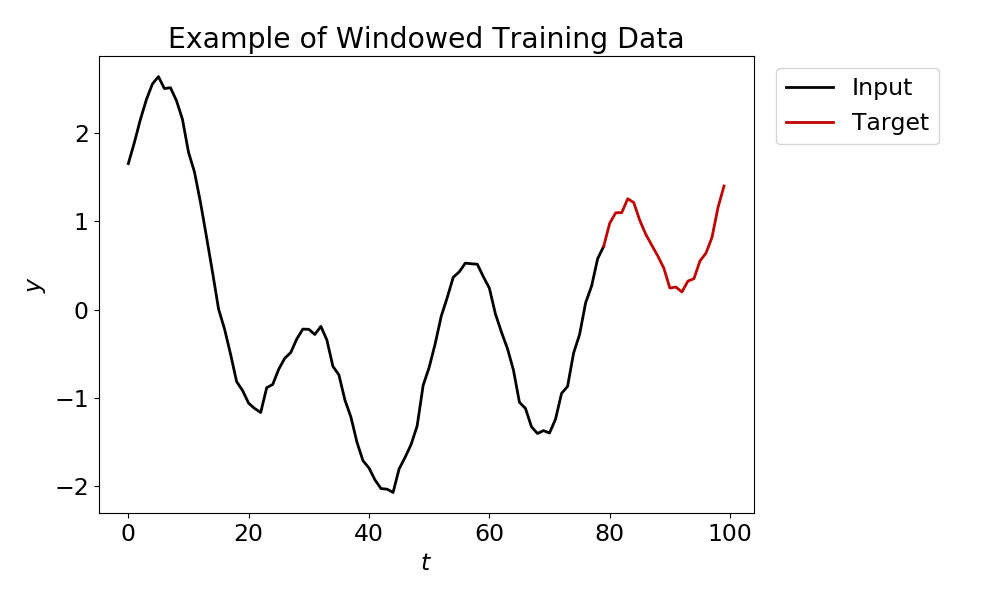
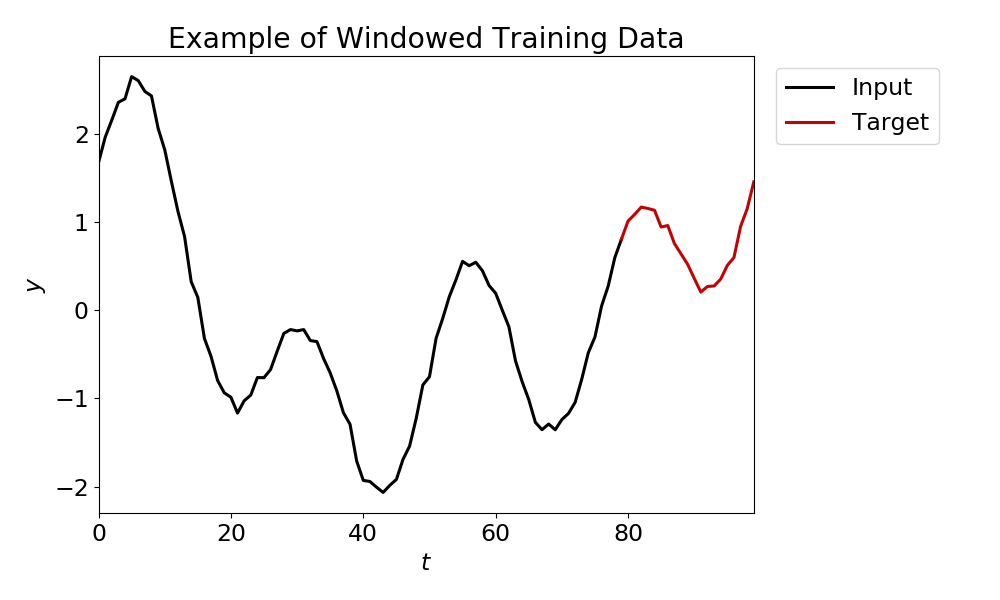
edit figure windowed

diff --git a/code/example.py b/code/example.py
@@ -55,13 +55,16 @@ plt.savefig('plots/train_test_split.png')
 
 # example of windowed data  
 plt.figure(figsize = (10, 6)) 
-plt.plot(np.arange(0, iw), Xtrain[:, 0, 0], 'k', linewidth = 2, label = 'Input')
+plt.plot(np.arange(0, iw), Xtrain[:, 0, 0], 'k', linewidth = 2.2, label = 'Input')
 plt.plot(np.arange(iw - 1, iw + ow), np.concatenate([[Xtrain[-1, 0, 0]], Ytrain[:, 0, 0]]),
-         color = (0.76, 0.01, 0.01), linewidth = 2, label = 'Target')
+         color = (0.76, 0.01, 0.01), linewidth = 2.2, label = 'Target')
+plt.xlim([0, iw + ow - 1])
 plt.xlabel(r'$t$')
 plt.ylabel(r'$y$')
 plt.title('Example of Windowed Training Data')
 plt.legend(bbox_to_anchor=(1.3, 1))
 plt.tight_layout() 
 plt.savefig('plots/windowed_data.png')
+
+plt.close('all')
 

diff --git a/README.md b/README.md
@@ -41,13 +41,13 @@ We treat the first 80 percent of the time series as the training set and the las
   <img src="code/plots/train_test_split.png" width="900">
   </p>
 
-Right now, we have our dataset as one long time series. In order to train the LSTM encoder-decoder, we need to subdivide the time series into many shorter sequences of _n<sub>i</sub>_ input values and _n<sub>o</sub>_ target values. We can achieve this by _windowing_ the time series. To do this, we start at the first _y_ value and collect _n<sub>i</sub>_ values as input and the next _n<sub>o</sub>_ values as targets. Then, we slide our window to the second (stride = 1) or third (stride = 2) _y_ value and repeat the procedure. We do this until the window does not fit into the dataset, for a total of _n<sub>w</sub>_ times. We collect the inputs in a matrix, _X_, with shape (_n<sub>i</sub>_, _n<sub>w</sub>_) and the targets in a matrix, _Y_, with.shape (_n<sub>o</sub>_, _n<sub>w</sub>_). An example of the windowing procedure is shown below for _n<sub>i</sub>_ = 3, _n<sub>o</sub>_ = 2, and stride = 1 is shown below. 
+Right now, we have our dataset as one long time series. In order to train the LSTM encoder-decoder, we need to subdivide the time series into many shorter sequences of _n<sub>i</sub>_ input values and _n<sub>o</sub>_ target values. We can achieve this by _windowing_ the time series. To do this, we start at the first _y_ value and collect _n<sub>i</sub>_ values as input and the next _n<sub>o</sub>_ values as targets. Then, we slide our window to the second (stride = 1) or third (stride = 2) _y_ value and repeat the procedure. We do this until the window does not fit into the dataset, for a total of _n<sub>w</sub>_ times. We collect the inputs in a matrix, _X_, with shape (_n<sub>i</sub>_, _n<sub>w</sub>_) and the targets in a matrix, _Y_, with shape (_n<sub>o</sub>_, _n<sub>w</sub>_). The windowing procedure is shown schematically for _n<sub>i</sub>_ = 3, _n<sub>o</sub>_ = 2, and stride = 1 below. 
 
 <p align="center">
   <img src="figures/windowed_dataset.png" width="700">
   </p>
 
-We will feed _X_ and _Y_ into our LSTM encoder-decoder for training. The LSTM encoder-decoder expects _X_ and _Y_ to be 3-dimensional, with the third dimension being the number of features. We therefore augment the shape of _X_ to be (_n<sub>i<\sub>_, _n<sub>w<\sub>_, 1) and _Y_ to be (_n<sub>o<\sub>_, _n<sub>w<\sub>_, 1). 
+We will feed _X_ and _Y_ into our LSTM encoder-decoder for training. The LSTM encoder-decoder expects _X_ and _Y_ to be 3-dimensional, with the third dimension being the number of features. We therefore augment the shape of _X_ to be (_n<sub>i</sub>_, _n<sub>w</sub>_, 1) and _Y_ to be (_n<sub>o</sub>_, _n<sub>w</sub>_, 1). 
 
 We apply the windowing procedure to our synthetic time series, using _n<sub>i</sub>_ = 80, _n<sub>o</sub>_ = 20, and stride = 5. An sample window is shown below.  
 
